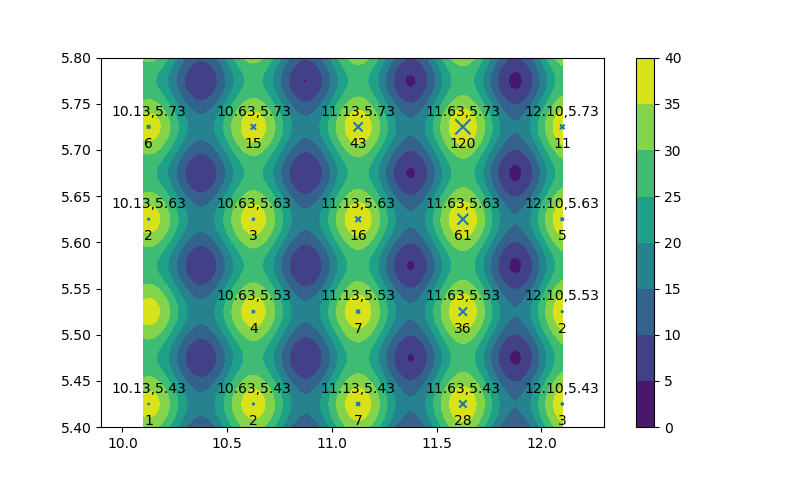
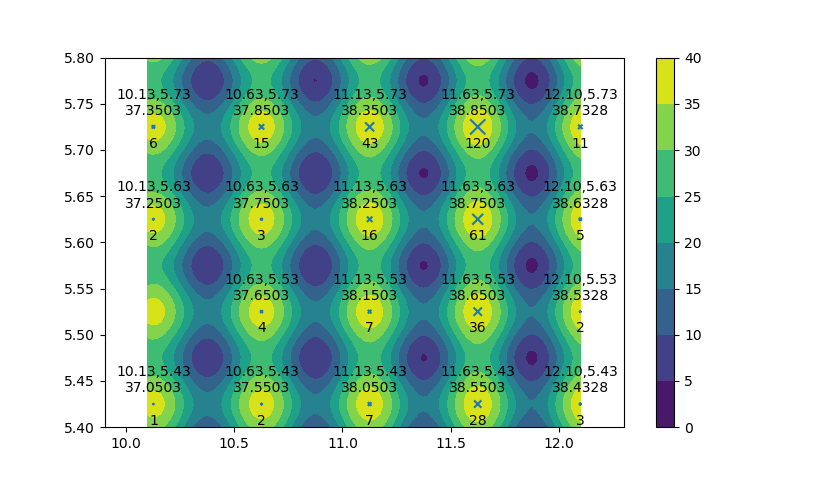
fix pic4

diff --git a/aimeta/drawmesh.py b/aimeta/drawmesh.py
@@ -11,8 +11,8 @@ plt.ylim((YMIN,YMAX))
 X=np.linspace(XMIN, XMAX,100)
 Y=np.linspace(YMIN, YMAX,100)
 X,Y=np.meshgrid(X,Y)
-Z=21.5 + X*np.sin(4*math.pi*X) + Y*np.sin(20*math.pi*Y)
-
+f=lambda x,y:21.5 + x*np.sin(4*math.pi*x) + y*np.sin(20*math.pi*y)
+Z=f(X,Y)
 
 plt.contourf(X,Y,Z)
 plt.colorbar()
@@ -32,7 +32,7 @@ for i in range(s.shape[0]):
 clust=np.array(clust)
 plt.scatter(clust[:,0],clust[:,1], np.array(clustc), marker='x');
 for i in range(clust.shape[0]):
-    plt.annotate('%.2f,%.2f\n\n%d'%(clust[i,0],clust[i,1],clustc[i]), \
-        xy=(clust[i,0],clust[i,1]),xytext = (0, 16), textcoords = 'offset points',ha = 'center', va = 'top')
+    plt.annotate('%.2f,%.2f\n%.4f\n\n%d'%(clust[i,0],clust[i,1], f(clust[i,0],clust[i,1]) ,clustc[i]), \
+        xy=(clust[i,0],clust[i,1]),xytext = (0, 28), textcoords = 'offset points',ha = 'center', va = 'top')
 
 plt.show()

diff --git a/aimeta/readme.md b/aimeta/readme.md
@@ -25,17 +25,17 @@
 ||ITER=1000 N=100 E=2 PC=0.6 PM=0.1|312.57ms|73.00% (73/100)|
 
 # Result distribution analyze
-![](argmax_genetic_sample.png)  
+![image: genetic_sample](argmax_genetic_sample.png)  
 task=argmax algo=genetic  ITER=250 N=10 E=2 PC=0.6 PM=0.1  
 speed = 8.34ms  accuracy=6.00% (30/500)
 
-![](argmax_SA_sample.png)  
+![image: SA_sample](argmax_SA_sample.png)  
 task=argmax algo=SA  delta=0.998  
 speed = 2.52ms  accuracy=24.00% (120/500)
 
-![target function](argmax_func_full.png)  
+![image: target function](argmax_func_full.png)  
 Full target function
 
-![algo=SA delta=0.998](argmax_func_distribution.png)  
+![image: algo=SA delta=0.998](argmax_func_distribution.png)  
 algo=SA delta=0.998  
 Result distribution
